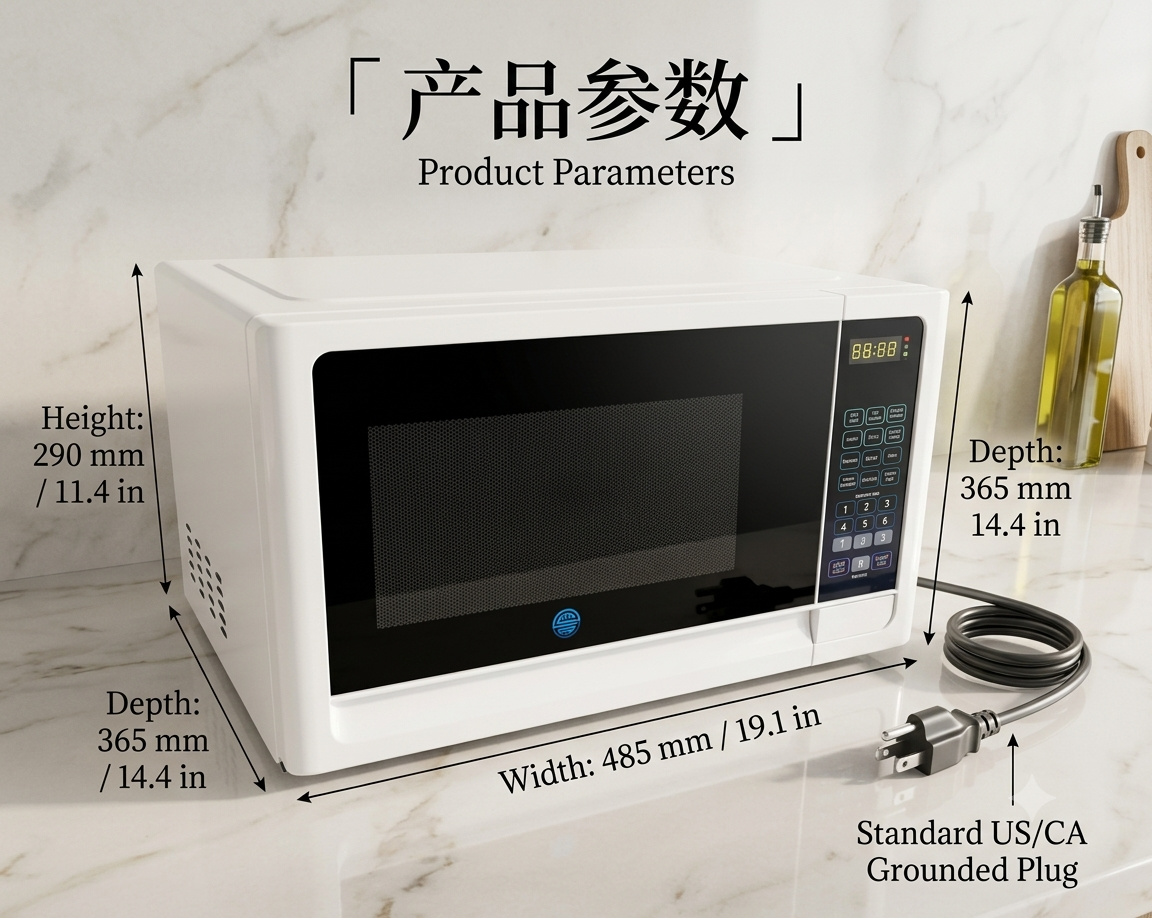
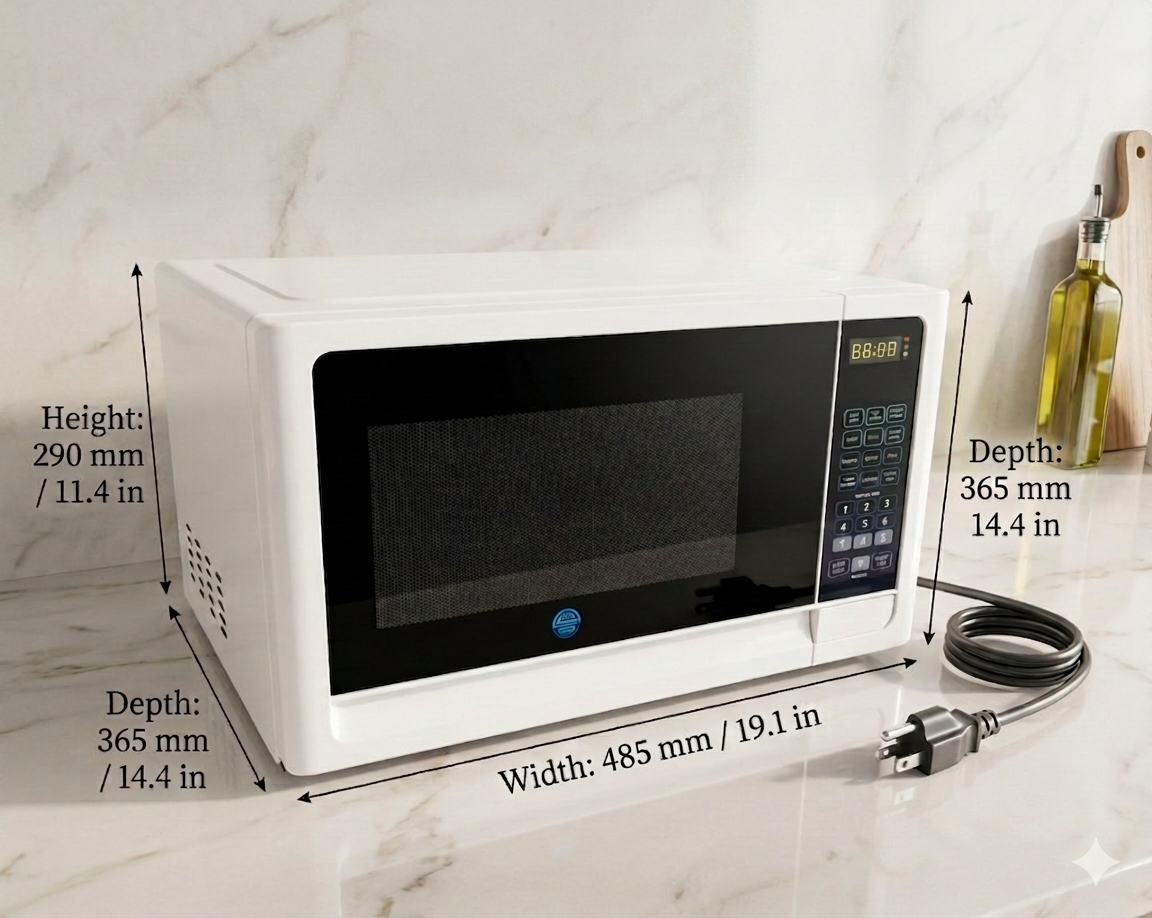
ud pic7190100

diff --git a/index.html b/index.html
@@ -1,34 +1,22 @@
 <!DOCTYPE html>
 <html lang="en">
-
 <head>
-
 <meta charset="UTF-8">
-
 <meta name="viewport" content="width=device-width, initial-scale=1">
-
 <title>ADU Build Cottage</title>
-
 <link
 href="https://cdn.jsdelivr.net/npm/bootstrap@5.3.3/dist/css/bootstrap.min.css"
 rel="stylesheet">
-
 <link
 rel="stylesheet"
 href="css/style.css">
-
 </head>
-
 <body>
 
 <nav class="navbar navbar-expand-lg navbar-light bg-white shadow-sm">
-
 <div class="container">
-
 <a class="navbar-brand fw-bold" href="index.html">
-
 ADU Build Cottage
-
 </a>
 
 <button
@@ -36,217 +24,124 @@ class="navbar-toggler"
 type="button"
 data-bs-toggle="collapse"
 data-bs-target="#navbarNav">
-
 <span class="navbar-toggler-icon"></span>
-
 </button>
 
+
 <div class="collapse navbar-collapse" id="navbarNav">
-
 <ul class="navbar-nav ms-auto">
-
 <li class="nav-item">
-
 <a class="nav-link active" href="index.html">
 
 Home
-
 </a>
-
 </li>
-
 <li class="nav-item">
-
 <a class="nav-link" href="build.html">
-
 Build
-
 </a>
-
 </li>
-
 <li class="nav-item">
-
 <a class="nav-link" href="gallery.html">
-
 Gallery
-
 </a>
-
 </li>
-
 <li class="nav-item">
-
 <a class="nav-link" href="quote.html">
-
 Quote
-
 </a>
-
 </li>
-
 </ul>
-
 </div>
-
 </div>
-
 </nav>
-
 <section class="hero">
-
 <div class="container">
-
 <div class="row align-items-center">
-
 <div class="col-lg-6">
-
 <span class="badge bg-success fs-6 px-3 py-2 mb-3">
-
 🚚 Shipping Promotion Until July 21
-
 </span>
-
 <h1 class="display-3 fw-bold">
-
 Design Your Dream Cottage
-
 </h1>
-
 <p class="lead mt-4">
-
 Choose your base cottage and customize it with premium appliances,
 furniture and fixtures.
-
 </p>
-
 <a
 href="build.html"
 class="btn btn-success btn-lg mt-3">
-
 Design Your Cottage
-
 </a>
-
 </div>
-
 <div class="col-lg-6">
-
 <img
 src="images/hero/hero.jpg"
 class="img-fluid rounded shadow">
-
 </div>
-
 </div>
-
 </div>
-
 </section>
-
 <section class="shipping-banner">
-
 <div class="container">
-
 <h2>
-
 Shipping USD12800 Until July 21
-
 </h2>
-
 <p class="mb-0">
-
 Limited-time offer. Contact us today.
-
 </p>
-
 </div>
-
 </section>
 <section class="py-5">
-
 <div class="container">
-
 <div class="text-center mb-5">
-
 <h2 class="display-5 fw-bold">
-
 Choose Your Cottage
-
 </h2>
-
 <p class="lead">
-
 Three packages to fit every lifestyle.
-
 </p>
-
 </div>
-
 <div class="row g-4">
 
+
 <div class="col-lg-4">
-
 <div class="card h-100 shadow-sm model-card">
-
 <img
 src="images/models/canvas.jpg"
 class="card-img-top">
-
 <div class="card-body">
 
 <h3>The Canvas</h3>
-
 <h2 class="text-success">
-
 $16,900
-
 </h2>
-
 <p>
-
 Build it your way.
-
 </p>
-
 <a
 href="build.html"
 class="btn btn-outline-success">
-
 Customize
-
 </a>
-
 </div>
-
 </div>
-
 </div>
 
 <div class="col-lg-4">
-
 <div class="card h-100 shadow-sm model-card">
-
 <img
 src="images/models/equipped.jpg"
 class="card-img-top">
-
 <div class="card-body">
-
 <h3>The Equipped</h3>
-
 <h2 class="text-success">
-
 $22,700
-
 </h2>
-
 <p>
-
 Our most popular package.
-
 </p>
-
 <a
 href="build.html"
 class="btn btn-success">

diff --git a/build.html b/build.html
@@ -439,7 +439,7 @@ The Turnkey — <strong>$24,970</strong>
 
 </footer>
 
-<script src="js/build.js?v=precheck718-0505"></script>
+<script src="js/build.js?v=precheck718-2352"></script>
 
 <script src="https://cdn.jsdelivr.net/npm/bootstrap@5.3.3/dist/js/bootstrap.bundle.min.js"></script>
 